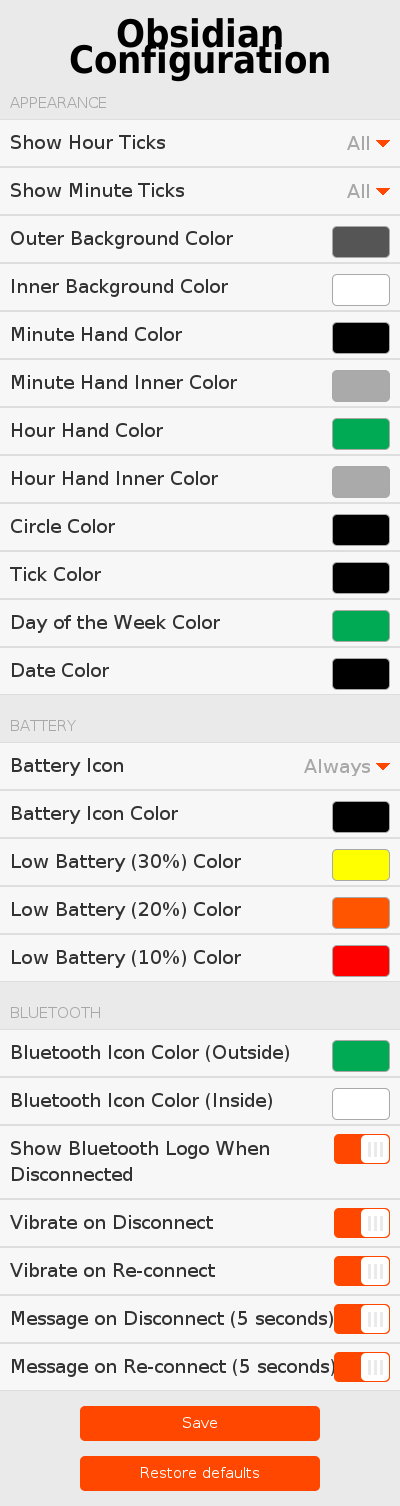
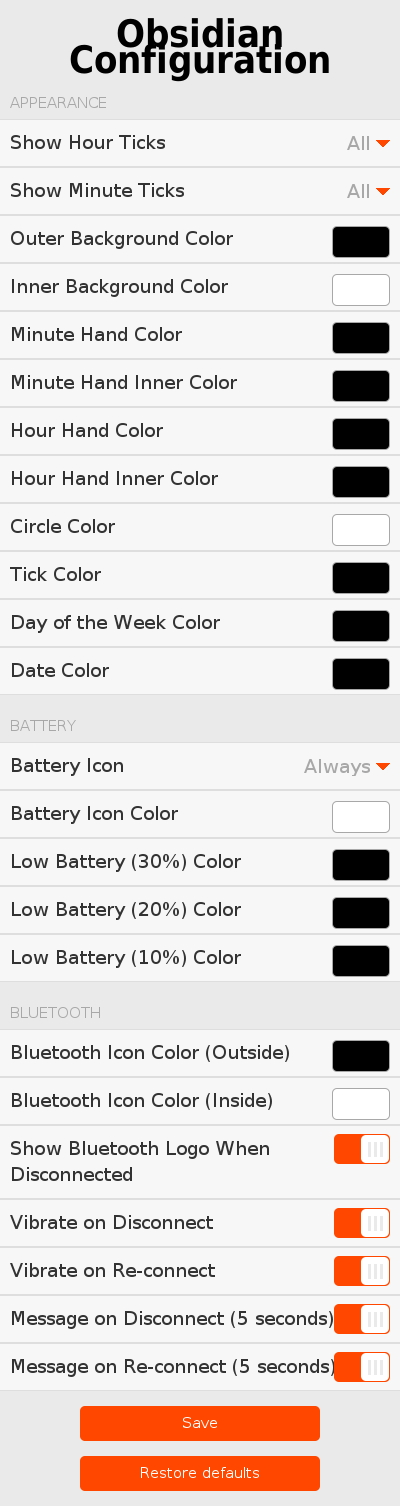
update defaults for bw pebble in config

diff --git a/config/index.html b/config/index.html
@@ -281,26 +281,31 @@
     return defaultValue || false;
   }
 
+  function COLOR_FALLBACK(color, bw) {
+    if (isBasalt()) return color;
+    return bw;
+  }
+
   function readValuesFromStorage(use_defaults) {
     // default options
     var defaults = {
-      CONFIG_COLOR_OUTER_BACKGROUND: GColor.DarkGray,
-      CONFIG_COLOR_INNER_BACKGROUND: GColor.White,
-      CONFIG_COLOR_MINUTE_HAND: GColor.Black,
-      CONFIG_COLOR_INNER_MINUTE_HAND: GColor.LightGray,
-      CONFIG_COLOR_HOUR_HAND: GColor.JaegerGreen,
-      CONFIG_COLOR_INNER_HOUR_HAND: GColor.LightGray,
-      CONFIG_COLOR_CIRCLE: GColor.Black,
-      CONFIG_COLOR_TICKS: GColor.Black,
-      CONFIG_COLOR_DAY_OF_WEEK: GColor.JaegerGreen,
-      CONFIG_COLOR_DATE: GColor.Black,
+      CONFIG_COLOR_OUTER_BACKGROUND: COLOR_FALLBACK(GColor.DarkGray, GColor.Black),
+      CONFIG_COLOR_INNER_BACKGROUND: COLOR_FALLBACK(GColor.White, GColor.White),
+      CONFIG_COLOR_MINUTE_HAND: COLOR_FALLBACK(GColor.Black, GColor.Black),
+      CONFIG_COLOR_INNER_MINUTE_HAND: COLOR_FALLBACK(GColor.LightGray, GColor.Black),
+      CONFIG_COLOR_HOUR_HAND: COLOR_FALLBACK(GColor.JaegerGreen, GColor.Black),
+      CONFIG_COLOR_INNER_HOUR_HAND: COLOR_FALLBACK(GColor.LightGray, GColor.Black),
+      CONFIG_COLOR_CIRCLE: COLOR_FALLBACK(GColor.Black, GColor.White),
+      CONFIG_COLOR_TICKS: COLOR_FALLBACK(GColor.Black, GColor.Black),
+      CONFIG_COLOR_DAY_OF_WEEK: COLOR_FALLBACK(GColor.JaegerGreen, GColor.Black),
+      CONFIG_COLOR_DATE: COLOR_FALLBACK(GColor.Black, GColor.Black),
       CONFIG_BATTERY_LOGO: 1,
-      CONFIG_COLOR_BATTERY_LOGO: GColor.Black,
-      CONFIG_COLOR_BATTERY_30: GColor.Yellow,
-      CONFIG_COLOR_BATTERY_20: GColor.Orange,
-      CONFIG_COLOR_BATTERY_10: GColor.Red,
-      CONFIG_COLOR_BLUETOOTH_LOGO: GColor.JaegerGreen,
-      CONFIG_COLOR_BLUETOOTH_LOGO_2: GColor.White,
+      CONFIG_COLOR_BATTERY_LOGO: COLOR_FALLBACK(GColor.Black, GColor.White),
+      CONFIG_COLOR_BATTERY_30: COLOR_FALLBACK(GColor.Yellow, GColor.Black),
+      CONFIG_COLOR_BATTERY_20: COLOR_FALLBACK(GColor.Orange, GColor.Black),
+      CONFIG_COLOR_BATTERY_10: COLOR_FALLBACK(GColor.Red, GColor.Black),
+      CONFIG_COLOR_BLUETOOTH_LOGO: COLOR_FALLBACK(GColor.JaegerGreen, GColor.Black),
+      CONFIG_COLOR_BLUETOOTH_LOGO_2: COLOR_FALLBACK(GColor.White, GColor.White),
       CONFIG_BLUETOOTH_LOGO: +true,
       CONFIG_VIBRATE_DISCONNECT: +true,
       CONFIG_VIBRATE_RECONNECT: +true,
